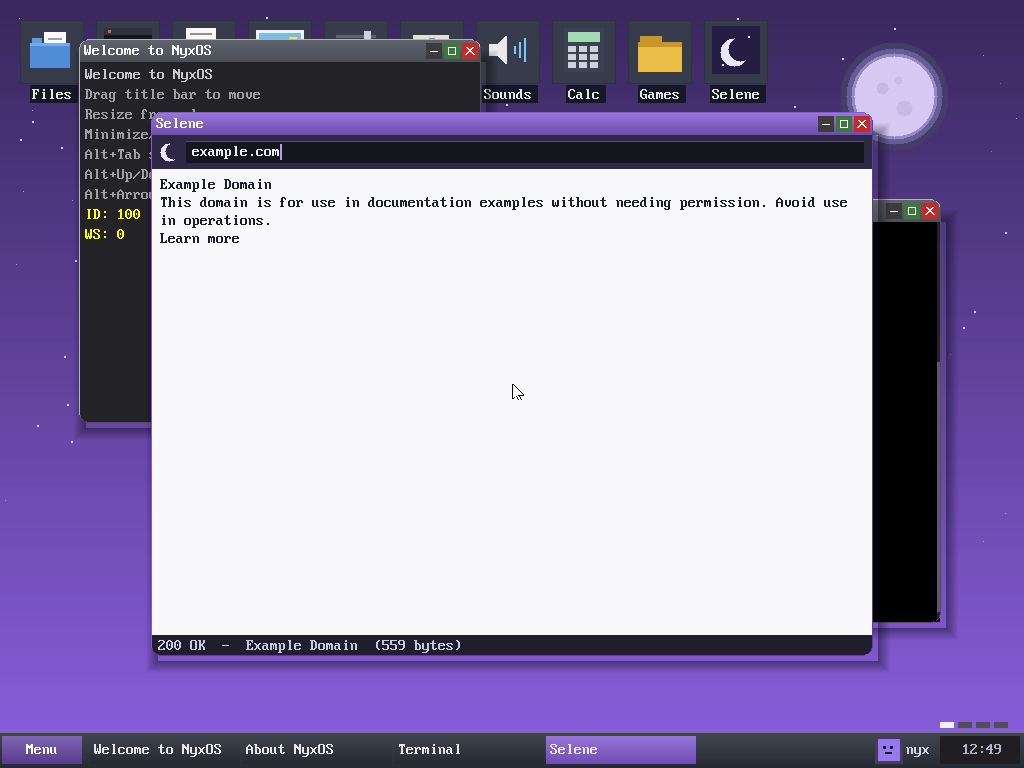
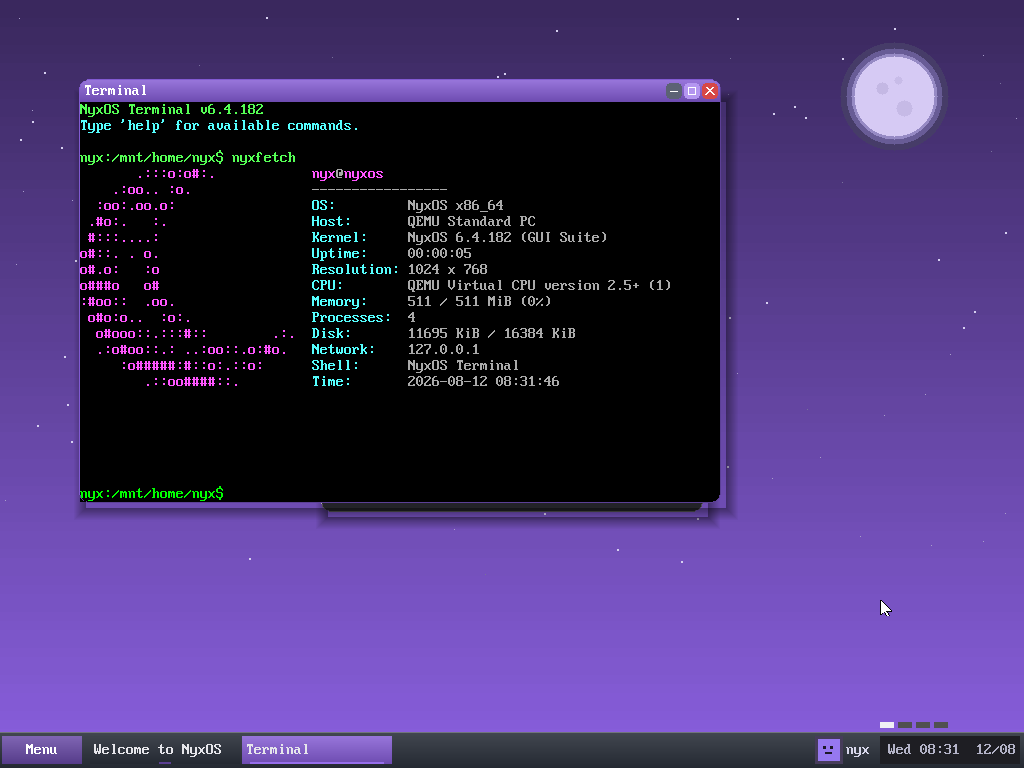
Refresh README screenshots and GIFs

diff --git a/README.md b/README.md
@@ -39,8 +39,8 @@
 **NyxOS** is a from-scratch x86_64 operating system written in C and x86_64 Assembly, with no external libraries. It boots via Multiboot (GRUB) into long mode with 4-level paging and full user/kernel isolation, and provides a preemptive multitasking kernel, a ring-3 POSIX-style userspace, a real TCP/IP network stack, a windowed desktop, and an in-OS C compiler that builds — and rebuilds itself — entirely inside the running system.
 
 <div align="center">
-  <img src="gui.png?v=6" alt="NyxOS desktop with the Selene web browser" width="700" />
-  <p><em>The NyxOS desktop — the Selene web browser, app icons, the Nightfall wallpaper, and the taskbar</em></p>
+  <img src="gui.png?v=7" alt="NyxOS desktop running nyxfetch in the terminal" width="700" />
+  <p><em>The NyxOS desktop — the terminal running <code>nyxfetch</code>, the Nightfall wallpaper, and the taskbar</em></p>
 </div>
 
 ---
@@ -50,11 +50,11 @@
 <table>
 <tr>
 <td width="50%" valign="top">
-<img src="media/startup.gif?v=2" alt="NyxOS login and desktop" width="100%"/>
+<img src="media/startup.gif?v=3" alt="NyxOS login and desktop" width="100%"/>
 <p align="center"><em>Login → windowed desktop → <code>nyxfetch</code></em></p>
 </td>
 <td width="50%" valign="top">
-<img src="media/terminal.gif?v=2" alt="NyxOS terminal session" width="100%"/>
+<img src="media/terminal.gif?v=3" alt="NyxOS terminal session" width="100%"/>
 <p align="center"><em>Live shell in color — <code>nyxfetch</code>, <code>ls</code>, <code>ps</code></em></p>
 </td>
 </tr>
